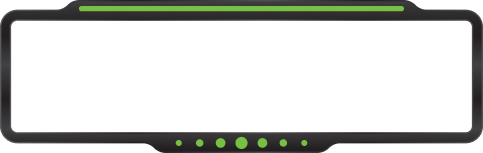
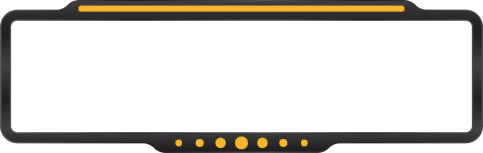
update iesf fdve

Changed region(s): [[0.1553, 0.0261, 0.8385, 0.0784], [0.3416, 0.8889, 0.6522, 0.9935]]

diff --git a/pages/torneovmc.js b/pages/torneovmc.js
@@ -145,7 +145,7 @@ const Torneo = () => {
                 <li
                   className={`relative flex cursor-pointer items-center justify-center px-1 ${
                     posicion.VISION_GENERAL
-                      ? "active border-b-4 top-[1px] border-[#76C100] pb-4"
+                      ? "activeiesf border-b-4 top-[1px] border-[#F6B52E] pb-4"
                       : "inactive"
                   }`}
                   onClick={() => {
@@ -164,7 +164,7 @@ const Torneo = () => {
                 <li
                   className={`relative flex cursor-pointer items-center justify-center px-1 ${
                     posicion.REGLAS
-                      ? "active border-b-4 top-[1px] border-[#76C100] pb-4"
+                      ? "activeiesf border-b-4 top-[1px] border-[#F6B52E] pb-4"
                       : "inactive"
                   }`}
                   onClick={() => {
@@ -183,7 +183,7 @@ const Torneo = () => {
                 <li
                   className={`relative flex cursor-pointer items-center justify-center px-1 ${
                     posicion.EQUIPOS
-                      ? "active border-b-4 top-[1px] border-[#76C100] pb-4"
+                      ? "activeiesf border-b-4 top-[1px] border-[#F6B52E] pb-4"
                       : "inactive"
                   }`}
                   onClick={() => {
@@ -202,7 +202,7 @@ const Torneo = () => {
                 <li
                   className={`relative flex cursor-pointer items-center justify-center px-1 ${
                     posicion.FASES
-                      ? "active border-b-4 top-[1px] border-[#76C100] pb-4"
+                      ? "activeiesf border-b-4 top-[1px] border-[#F6B52E] pb-4"
                       : "inactive"
                   }`}
                   onClick={() => {
@@ -221,7 +221,7 @@ const Torneo = () => {
                 <li
                   className={`relative flex cursor-pointer items-center justify-center px-1 ${
                     posicion.TABLA
-                      ? "active border-b-4 top-[1px] border-[#76C100] pb-4"
+                      ? "activeiesf border-b-4 top-[1px] border-[#F6B52E] pb-4"
                       : "inactive"
                   }`}
                   onClick={() => {
@@ -251,7 +251,7 @@ const Torneo = () => {
                         <div>
                           <a
                             type="buttom"
-                            className="bg-[#72C100] items-center justify-center text-white font-mono py-2 px-4 rounded-[5px] mt-4"
+                            className="bg-[#F6B52E] items-center justify-center text-white font-mono py-2 px-4 rounded-[5px] mt-4"
                             href="/registro-torneo-vmc-2024"
                             target="_blank"
                           >
@@ -301,7 +301,7 @@ const Torneo = () => {
                         <div className="">
                           <button
                             type="buttom"
-                            className="bg-[#71C100] text-white items-center justify-cente font-serif font-bold py-2 px-4 rounded-[5px] mt-4"
+                            className="bg-[#F6B52E] text-white items-center justify-cente font-serif font-bold py-2 px-4 rounded-[5px] mt-4"
                             onClick={() => {
                               setPosicion({
                                 VISION_GENERAL: false,
@@ -326,7 +326,7 @@ const Torneo = () => {
                           <p className="text-white p-4 text-sm px-6 font-bold">
                             PREMIACION TOTAL
                           </p>
-                          <p className="text-[#76C100] text-2xl mx-6">
+                          <p className="text-[#F6B52E] text-2xl mx-6">
                             {torneo.premio_primer_lugar +
                               torneo.premio_segundo_lugar +
                               torneo.premio_tercer_lugar}
@@ -336,21 +336,21 @@ const Torneo = () => {
 
                         <div className="flex my-[3px] bg-[#242424] justify-between items-center">
                           <p className="text-white p-4 px-6">1° lugar</p>
-                          <p className="text-[#76C100] text-2xl mx-6">
+                          <p className="text-[#F6B52E] text-2xl mx-6">
                             {torneo.premio_primer_lugar}$
                           </p>
                         </div>
 
                         <div className="flex my-[3px] bg-[#242424] justify-between items-center">
                           <p className="text-white p-4 px-6">2° lugar</p>
-                          <p className="text-[#76C100] text-2xl mx-6">
+                          <p className="text-[#F6B52E] text-2xl mx-6">
                             {torneo.premio_segundo_lugar}$
                           </p>
                         </div>
 
                         <div className="flex my-[3px] bg-[#242424] justify-between items-center">
                           <p className="text-white p-4 px-6">3° lugar</p>
-                          <p className="text-[#76C100] text-2xl mx-6">
+                          <p className="text-[#F6B52E] text-2xl mx-6">
                             {torneo.premio_tercer_lugar}$
                           </p>
                         </div>
@@ -390,16 +390,16 @@ const Torneo = () => {
               {
                 // FASES
                 posicion.FASES && (
-                  <>
-                    <Titulo primary="Fases De Grupo" secondary="VMC" />
-                  </>
+                  <div className='text-white'>
+                    Por definir
+                  </div>
                 )
               }
 
               {posicion.TABLA && (
-                <>
-                  <Titulo primary="Main Event" secondary="VMC" />
-                </>
+                <div className="text-white">
+                  Por definir
+                </div>
               )}
 
               {posicion.EQUIPOS && (
@@ -411,7 +411,7 @@ const Torneo = () => {
                   
                   {equipos.map((equipo) => (
                     <>
-                      <div className="flex relative lg:w-full mt-20 flex-col card items-center justify-center m-4 hover:shadow-xl !shadow-emerald-700">
+                      <div className="flex relative lg:w-full mt-20 flex-col card items-center justify-center m-4 hover:shadow-xl !shadow-amber-300">
                         <div className="flex flex-col items-center justify-center relative top-[-7vh] pt-[-7vh] ">
                           <div>
                             <img
@@ -432,7 +432,7 @@ const Torneo = () => {
 
                           <div className="w-full">
                             {equipo.jugadores.map((jugador) => (
-                              <div className="flex items-center hover:bg-emerald-700 justify-between gap-4 py-2 px-4 rounded-xl">
+                              <div className="flex items-center hover:bg-amber-300 justify-between gap-4 py-2 px-4 rounded-xl">
                                 <div className="flex items-center gap-2">
                                   {/* <img
                                     src={jugador.avatar

diff --git a/pages/registro-torneo-vmc-2024.js b/pages/registro-torneo-vmc-2024.js
@@ -119,11 +119,28 @@ const RegistroTorneo = () => {
 					
 					
         </div>
-        <Titulo
-          primary={"Regístrate en el Torneo"}
-          secondary={"VMC Edición 2024"}
-        />
-        <p className="text-center text-xl font-bold text-black bg-backgroundLayer bg-center bg-contain bg-no-repeat p-10 mt-2 mx-4">
+        <h1
+          className="nombreCard !font-extrabold lg:mb-2 flex flex-col items-center justify-center text-3xl lg:text-4xl lg:p-2"
+          style={{
+            background:
+              "linear-gradient(90deg, #F6B52E, #F6B52E, #F6B52E, #F6B52E)",
+
+            color: "#EFEFEF",
+            textShadow: "1px 0px 1px #000000",
+          }}
+        >
+          <b className="">Regístrate en el Torneo</b>
+          <i
+            className="text-black text-base !font-extrabold lg:text-3xl lg:p-2"
+            style={{
+              textShadow: "none",
+            }}
+          >
+            VMC Edición 2024
+          </i>
+        </h1>
+
+        <p className="text-center font-bold text-black bg-backgroundLayer bg-center bg-contain bg-no-repeat p-10 mt-2 mx-4">
           Ingresa los datos de tu equipo.
         </p>
 
@@ -150,7 +167,7 @@ const RegistroTorneo = () => {
             />
 						{error.nombre && <p className="text-red-500">{error.nombre}</p>}
             <label className="input input-bordered flex items-center gap-2 w-3/4 ">
-              Nombre del Equipo
+              Nombre del Team
               <input
                 type="text"
                 className="grow"
@@ -161,7 +178,7 @@ const RegistroTorneo = () => {
 
 						{error.tag && <p className="text-red-500">{error.tag}</p>}
             <label className="input input-bordered flex items-center gap-2 w-3/4">
-              Tag (Abreviación del Equipo)
+              Tag (Abreviación)
 							
               <input
                 type="text"
@@ -188,10 +205,10 @@ const RegistroTorneo = () => {
                 type="checkbox"
                 onChange={(e) => setRules(e.target.checked)}
               />
-              <p className="text-white">Acepto haber leido y aceptado todas las <a href={"/torneovmc#reglas"} target="_blank" className="text-[#76C043]">reglas</a> del torneo.</p>
+              <p className="text-white">Acepto haber leido y aceptado todas las <a href={"/torneovmc#reglas"} target="_blank" className="text-[#F6B52E]">reglas</a> del torneo.</p>
               
             </div>
-            <button className="btn border-[#76C043] bg-[#76C043] w-3/4 text-white" onClick={onSubmit}>
+            <button className="btn border-[#F6B52E] bg-[#F6B52E] w-3/4 text-white" onClick={onSubmit}>
               Inscribir Equipo
             </button>
           </form>

diff --git a/pages/components/modals/ModalFlyer.js b/pages/components/modals/ModalFlyer.js
@@ -14,7 +14,7 @@ export default function ModalFlyer() {
     <div className="flex items-center justify-center flex-col modal-box bg-black text-white">
         <h3 className="font-bold text-lg">Ya Disponible El registro del Torneo VMC 2024</h3>
         <Image
-            className='flex items-center shadow-md shadow-green-400 justify-center bg-center bg-cover bg-no-repeat rounded-lg'
+            className='flex items-center shadow-md shadow-[#F6B52E] justify-center bg-center bg-cover bg-no-repeat rounded-lg'
             src="/images/flyer-vmc-2024.jpg"
             alt="Flyer del torneo VMC 2024"
             width={300} height={300}
@@ -23,7 +23,7 @@ export default function ModalFlyer() {
         <div className="modal-action">
         <form method="dialog">
             <div className="flex gap-2">
-                <Link className="btn bg-[#61C100]" href="/registro-torneo-vmc-2024">Registrarme</Link>
+                <Link className="btn bg-[#F6B52E] text-black" href="/registro-torneo-vmc-2024">Registrarme</Link>
                 <button className="btn">Cerrar</button>
             </div>
         </form>

diff --git a/tailwind.config.js b/tailwind.config.js
@@ -19,8 +19,15 @@ module.exports = {
         "backgroundLayer": "url('/images/layer.png')",
         "backgroundFlyer2024": "url('/images/flyer-vmc-2024.jpg')",
       }
-   
-    }
+    },
+    // fuente logik semi bold
+    // fontFamily: {
+    //   sans: ["Logik", "sans-serif"],
+    //   serif: ["Logik", "serif"],
+    //   mono: ["Logik", "monospace"],
+    //   display: ["Logik", "system-ui"],
+    //   body: ["Logik", "system-ui"],
+    // }
     
   },
   plugins: [require("daisyui")],

diff --git a/styles/globals.css b/styles/globals.css
@@ -233,6 +233,17 @@ h1 {
     text-shadow: 0px 0px 5px #76C100;
 }
 
+.activeiesf {
+    font-family: 'Inter';
+    font-style: normal;
+    font-weight: 400;
+    line-height: 19px;
+    letter-spacing: 0.05em;
+    /* Color Primary */
+    color: #F6B52E;
+    text-shadow: 0px 0px 5px #F6B52E;
+}
+
 .inactive {
     font-family: 'Inter';
     font-style: normal;
